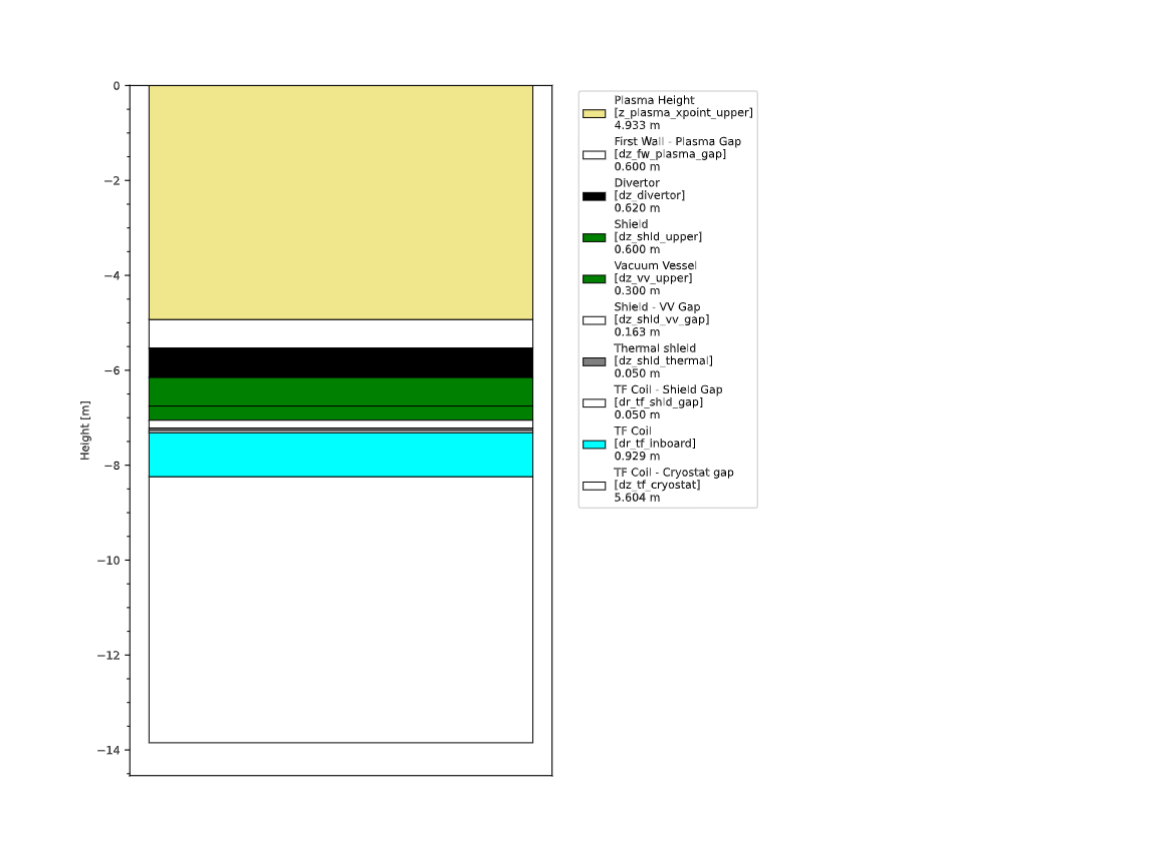
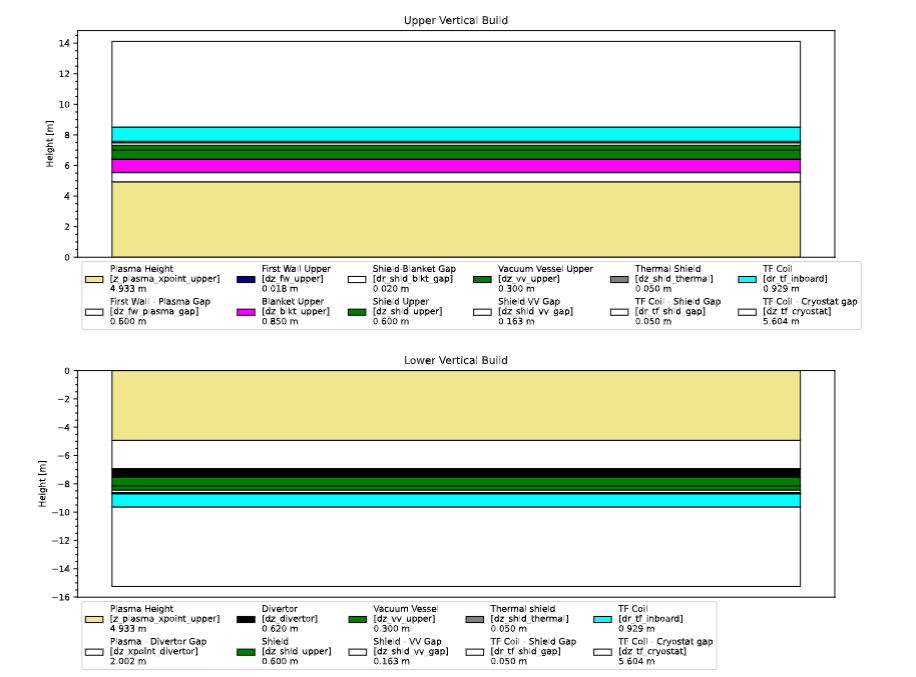
🎨 Full vertical build `plot_proc` (#3720)
* 🎨 Add functions for upper and lower vertical build plotting in plot_proc

* 🎨 Enhance vertical build plotting with updated labels and colors

* 🎨 Update plot_proc_6 image for improved clarity in documentation

diff --git a/process/io/plot_proc.py b/process/io/plot_proc.py
@@ -4804,9 +4804,11 @@ def plot_radial_build(axis: plt.Axes, mfile_data: mf.MFile, colour_scheme) -> No
     axis.set_xlabel("Radius [m]")
 
 
-def plot_vertical_build(axis: plt.Axes, mfile_data: mf.MFile, colour_scheme) -> None:
+def plot_lower_vertical_build(
+    axis: plt.Axes, mfile_data: mf.MFile, colour_scheme
+) -> None:
     """
-    Plots the vertical build of a fusion device on the given matplotlib axis.
+    Plots the lower vertical build of a fusion device on the given matplotlib axis.
 
     This function visualizes the different layers/components of the machine's vertical build
     (such as plasma, first wall, divertor, shield, vacuum vessel, thermal shield, TF coil, etc.)
@@ -4836,7 +4838,7 @@ def plot_vertical_build(axis: plt.Axes, mfile_data: mf.MFile, colour_scheme) -> 
 
     lower_vertical_variables = [
         "z_plasma_xpoint_upper",
-        "dz_fw_plasma_gap",
+        "dz_xpoint_divertor",
         "dz_divertor",
         "dz_shld_upper",
         "dz_vv_upper",
@@ -4857,7 +4859,7 @@ def plot_vertical_build(axis: plt.Axes, mfile_data: mf.MFile, colour_scheme) -> 
 
     lower_vertical_labels = [
         "Plasma Height",
-        "First Wall - Plasma Gap",
+        "Plasma - Divertor Gap",
         "Divertor",
         "Shield",
         "Vacuum Vessel",
@@ -4903,12 +4905,167 @@ def plot_vertical_build(axis: plt.Axes, mfile_data: mf.MFile, colour_scheme) -> 
 
     axis.set_xticks([])
     axis.legend(
-        bbox_to_anchor=(1.05, 1),
+        bbox_to_anchor=(0, 0),
         loc="upper left",
-        ncol=1,
+        ncol=5,
     )
     axis.minorticks_on()
     axis.set_ylabel("Height [m]")
+    axis.title.set_text("Lower Vertical Build")
+
+
+def plot_upper_vertical_build(
+    axis: plt.Axes, mfile_data: mf.MFile, colour_scheme
+) -> None:
+    """
+    Plots the upper vertical build of a fusion device on the given matplotlib axis.
+
+    This function visualizes the different layers/components of the machine's vertical build
+    (such as plasma, first wall, divertor, shield, vacuum vessel, thermal shield, TF coil, etc.)
+    as a vertical stacked bar chart. The thickness of each layer is extracted from the
+    provided `mfile_data`, and each segment is color-coded and labeled accordingly.
+
+    Parameters
+    ----------
+    axis : matplotlib.axes.Axes
+        The matplotlib axis on which to plot the vertical build.
+    mfile_data : mf.MFile
+        An object containing the machine build data, with required fields for each
+        vertical component.
+    colour_scheme : int
+        Colour scheme index to use for component colors.
+
+    Returns
+    -------
+    None
+        This function modifies the provided axis in-place and does not return a value.
+
+    Notes
+    -----
+    - Components with zero thickness are omitted from the plot.
+    - The legend displays the name and thickness (in meters) of each component.
+    """
+    if mfile_data.data["i_single_null"].get_scan(-1) == 1:
+        upper_vertical_variables = [
+            "z_plasma_xpoint_upper",
+            "dz_fw_plasma_gap",
+            "dz_fw_upper",
+            "dz_blkt_upper",
+            "dr_shld_blkt_gap",
+            "dz_shld_upper",
+            "dz_vv_upper",
+            "dz_shld_vv_gap",
+            "dz_shld_thermal",
+            "dr_tf_shld_gap",
+            "dr_tf_inboard",
+            "dz_tf_cryostat",
+        ]
+        upper_vertical_labels = [
+            "Plasma Height",
+            "First Wall - Plasma Gap",
+            "First Wall Upper",
+            "Blanket Upper",
+            "Shield-Blanket Gap",
+            "Shield Upper",
+            "Vacuum Vessel Upper",
+            "Shield-VV Gap",
+            "Thermal Shield",
+            "TF Coil - Shield Gap",
+            "TF Coil",
+            "TF Coil - Cryostat gap",
+        ]
+        upper_vertical_colours = [
+            PLASMA_COLOUR[colour_scheme - 1],
+            "white",
+            FIRSTWALL_COLOUR[colour_scheme - 1],
+            BLANKET_COLOUR[colour_scheme - 1],
+            "white",
+            SHIELD_COLOUR[colour_scheme - 1],
+            VESSEL_COLOUR[colour_scheme - 1],
+            "white",
+            THERMAL_SHIELD_COLOUR[colour_scheme - 1],
+            "white",
+            TFC_COLOUR[colour_scheme - 1],
+            "white",
+        ]
+    # Double null case
+    else:
+        upper_vertical_variables = [
+            "z_plasma_xpoint_upper",
+            "dz_xpoint_divertor",
+            "dz_divertor",
+            "dz_shld_upper",
+            "dz_vv_upper",
+            "dz_shld_vv_gap",
+            "dz_shld_thermal",
+            "dr_tf_shld_gap",
+            "dr_tf_inboard",
+            "dz_tf_cryostat",
+        ]
+        upper_vertical_labels = [
+            "Plasma Height",
+            "Plasma - Divertor Gap",
+            "Divertor Upper",
+            "Shield Upper",
+            "Vacuum Vessel Upper",
+            "Shield-VV Gap",
+            "Thermal Shield",
+            "TF Coil - Shield Gap",
+            "TF Coil",
+            "TF Coil - Cryostat gap",
+        ]
+        upper_vertical_colours = [
+            PLASMA_COLOUR[colour_scheme - 1],
+            "white",
+            "black",
+            SHIELD_COLOUR[colour_scheme - 1],
+            VESSEL_COLOUR[colour_scheme - 1],
+            "white",
+            THERMAL_SHIELD_COLOUR[colour_scheme - 1],
+            "white",
+            TFC_COLOUR[colour_scheme - 1],
+            "white",
+        ]
+
+    # Get thicknesses for each layer
+    upper_vertical_build = np.array([
+        mfile_data.data[rl].get_scan(-1) for rl in upper_vertical_variables
+    ])
+
+    # Remove build parts equal to zero
+    mask = ~(upper_vertical_build == 0.0)
+    filtered_build = upper_vertical_build[mask]
+    filtered_labels = [lbl for i, lbl in enumerate(upper_vertical_labels) if mask[i]]
+    filtered_colors = [col for i, col in enumerate(upper_vertical_colours) if mask[i]]
+    filtered_vars = [v for i, v in enumerate(upper_vertical_variables) if mask[i]]
+
+    # Compute cumulative positions (bottoms) for stacking
+    bottoms = np.zeros_like(filtered_build)
+    for i in range(1, len(filtered_build)):
+        bottoms[i] = bottoms[i - 1] + filtered_build[i - 1]
+
+    # Plot each layer as a bar, stacking upwards from zero
+    for kk in range(len(filtered_build)):
+        axis.bar(
+            0,
+            filtered_build[kk],
+            bottom=bottoms[kk],
+            width=0.8,
+            label=f"{filtered_labels[kk]}\n[{filtered_vars[kk]}]\n{filtered_build[kk]:.3f} m",
+            color=filtered_colors[kk],
+            edgecolor="black",
+            linewidth=0.05,
+        )
+
+    axis.set_xticks([])
+    axis.legend(
+        bbox_to_anchor=(0, 0),
+        loc="upper left",
+        ncol=6,
+    )
+    axis.minorticks_on()
+    axis.set_ylabel("Height [m]")
+    axis.title.set_text("Upper Vertical Build")
 
 
 def plot_density_limit_comparison(
@@ -5726,8 +5883,14 @@ def main_plot(
     plot_16.set_position([0.1, 0.33, 0.8, 0.6])  # x0, y0, width, height (2/3 vertical)
     plot_radial_build(plot_16, m_file_data, colour_scheme)
 
-    plot_17 = fig6.add_subplot(121)
-    plot_vertical_build(plot_17, m_file_data, colour_scheme)
+    # Make each axes smaller vertically to leave room for the legend
+    plot_175 = fig6.add_subplot(211)
+    plot_175.set_position([0.1, 0.61, 0.8, 0.32])  # x0, y0, width, height
+
+    plot_17 = fig6.add_subplot(212)
+    plot_17.set_position([0.1, 0.13, 0.8, 0.32])  # x0, y0, width, height
+    plot_upper_vertical_build(plot_175, m_file_data, colour_scheme)
+    plot_lower_vertical_build(plot_17, m_file_data, colour_scheme)
 
     # Can only plot WP and turn structure if superconducting coil at the moment
     if m_file_data.data["i_tf_sup"].get_scan(scan) == 1:
@@ -5760,10 +5923,10 @@ def main_plot(
     plot_current_profiles_over_time(plot_25, m_file_data, scan)
 
     plot_26 = fig12.add_subplot(121, aspect="equal")
-    plot_cs_coil_structure(plot_26, fig10, m_file_data, scan)
+    plot_cs_coil_structure(plot_26, fig12, m_file_data, scan)
 
     plot_27 = fig12.add_subplot(224, aspect="equal")
-    plot_cs_turn_structure(plot_27, fig10, m_file_data, scan)
+    plot_cs_turn_structure(plot_27, fig12, m_file_data, scan)
 
     plot_28 = fig13.add_subplot(221, aspect="equal")
     plot_first_wall_top_down_cross_section(plot_28, m_file_data, scan)
